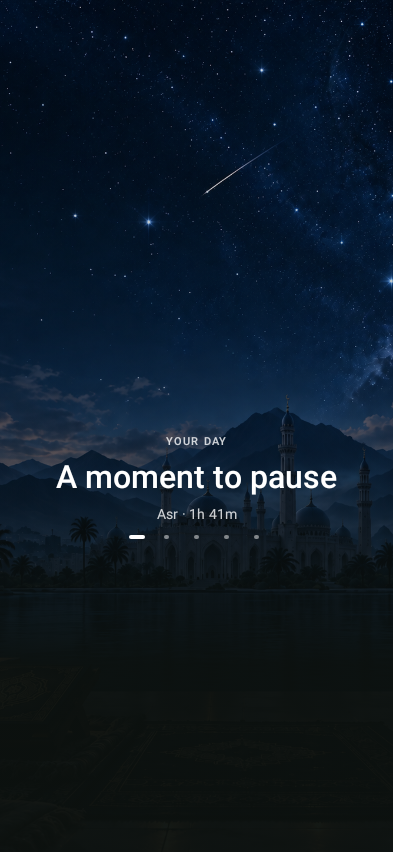
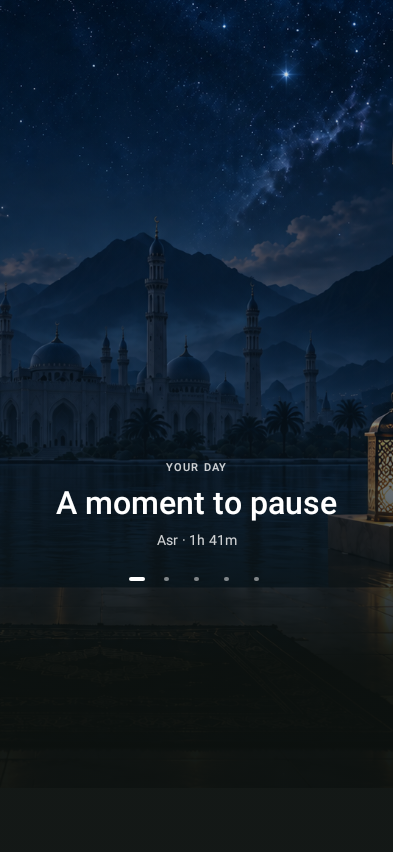
Refine Android home focal framing and glass controls

diff --git a/app/src/main/kotlin/com/starception/submission/ui/AppTopSearchBar.kt b/app/src/main/kotlin/com/starception/submission/ui/AppTopSearchBar.kt
@@ -55,6 +55,7 @@ import androidx.compose.animation.core.rememberInfiniteTransition
 import androidx.compose.animation.core.spring
 import androidx.compose.animation.core.tween
 import androidx.compose.foundation.Canvas
+import androidx.compose.foundation.BorderStroke
 import androidx.compose.foundation.background
 import androidx.compose.foundation.clickable
 import androidx.compose.foundation.layout.Box
@@ -66,9 +67,11 @@ import androidx.compose.foundation.layout.padding
 import androidx.compose.foundation.layout.size
 import androidx.compose.foundation.layout.statusBarsPadding
 import androidx.compose.foundation.shape.CircleShape
+import androidx.compose.foundation.shape.RoundedCornerShape
 import androidx.compose.material.icons.Icons
 import androidx.compose.material.icons.automirrored.filled.ArrowBack
 import androidx.compose.material.icons.filled.Search
+import androidx.compose.material.icons.filled.Settings
 import androidx.compose.material3.Icon
 import androidx.compose.material3.IconButton
 import androidx.compose.material3.MaterialTheme
@@ -538,6 +541,8 @@ fun AppTopSearchBar(
                 leading.isClickable = !homeImmersiveHeader
                 searchBar.alpha = if (homeImmersiveHeader) 0f else 1f
                 searchBar.isClickable = !homeImmersiveHeader
+                settings.visibility = if (homeImmersiveHeader) View.INVISIBLE else View.VISIBLE
+                settings.isClickable = !homeImmersiveHeader
                 val homeAccessibility = if (homeImmersiveHeader) {
                     View.IMPORTANT_FOR_ACCESSIBILITY_NO
                 } else {
@@ -545,6 +550,7 @@ fun AppTopSearchBar(
                 }
                 leading.importantForAccessibility = homeAccessibility
                 searchBar.importantForAccessibility = homeAccessibility
+                settings.importantForAccessibility = homeAccessibility
                 // Drive the SearchBar's hint from the typewriter state; the
                 // SearchView shows its own static placeholder when expanded.
                 // While voice capture is live the hints are cleared so the centered
@@ -658,6 +664,7 @@ fun AppTopSearchBar(
                     settings.scaleX = 1f
                     settings.scaleY = 1f
                 }
+                if (homeImmersiveHeader) settingsHalo.visibility = View.GONE
                 searchBar.navigationIcon?.mutate()?.setTint(pillTextColor)
                 for (i in 0 until searchBar.menu.size()) {
                     searchBar.menu.getItem(i).icon?.mutate()?.setTint(pillTextColor)
@@ -825,7 +832,7 @@ fun AppTopSearchBar(
         if (homeImmersiveHeader && !isSearchViewOpen) {
             Row(
                 modifier = Modifier.fillMaxWidth()
-                    .padding(start = 22.dp, end = 64.dp, top = topInset + 4.dp),
+                    .padding(start = 22.dp, end = 22.dp, top = topInset + 4.dp),
                 verticalAlignment = Alignment.CenterVertically,
                 horizontalArrangement = Arrangement.spacedBy(8.dp),
             ) {
@@ -841,20 +848,23 @@ fun AppTopSearchBar(
                         .semantics { contentDescription = "Open profile" },
                 )
                 Surface(
-                    onClick = { searchViewHolder.value?.show() },
-                    shape = CircleShape,
-                    color = if (isDarkTheme) ComposeColor(0xFF152438).copy(alpha = .84f)
-                    else ComposeColor(0xFFF7F4FB),
-                    shadowElevation = if (isDarkTheme) 0.dp else 3.dp,
-                    modifier = Modifier.size(44.dp),
+                    shape = RoundedCornerShape(22.dp),
+                    color = ComposeColor(0xFF233443).copy(alpha = if (isDarkTheme) .68f else .72f),
+                    border = BorderStroke(1.dp, ComposeColor.White.copy(alpha = .30f)),
+                    shadowElevation = if (isDarkTheme) 3.dp else 6.dp,
                 ) {
-                    Box(contentAlignment = Alignment.Center) {
-                        Icon(
-                            imageVector = Icons.Default.Search,
-                            contentDescription = "Search",
-                            tint = if (isDarkTheme) ComposeColor.White else ComposeColor(0xFF1F1A2A),
-                            modifier = Modifier.size(22.dp),
-                        )
+                    Row(verticalAlignment = Alignment.CenterVertically) {
+                        IconButton(
+                            onClick = { searchViewHolder.value?.show() },
+                            modifier = Modifier.size(40.dp),
+                        ) {
+                            Icon(Icons.Default.Search, contentDescription = "Search",
+                                tint = ComposeColor.White, modifier = Modifier.size(19.dp))
+                        }
+                        IconButton(onClick = onSettingsClick, modifier = Modifier.size(40.dp)) {
+                            Icon(Icons.Default.Settings, contentDescription = "Settings",
+                                tint = ComposeColor.White, modifier = Modifier.size(19.dp))
+                        }
                     }
                 }
             }

diff --git a/app/src/main/kotlin/com/starception/submission/feature/prayertimes/PrayerTimesScreen.kt b/app/src/main/kotlin/com/starception/submission/feature/prayertimes/PrayerTimesScreen.kt
@@ -3027,11 +3027,18 @@ fun PrayerTimesScreen(
                         painter = composeArtworkPainter(homeCoverArtwork(coverPage, prayerArtworkNight)),
                         contentDescription = null,
                         contentScale = ContentScale.Crop,
-                        modifier = Modifier.fillMaxSize(),
+                        alignment = if (coverPage == 0) Alignment.BottomEnd else Alignment.Center,
+                        modifier = Modifier.fillMaxSize().then(
+                            if (coverPage == 0) Modifier.graphicsLayer {
+                                scaleX = 1.25f
+                                scaleY = 1.25f
+                                translationY = -size.height * .20f
+                            } else Modifier,
+                        ),
                     )
                     Box(Modifier.fillMaxSize().background(Brush.verticalGradient(
                         0f to Color(0xFF071C30).copy(alpha = .12f),
-                        .50f to Color(0xFF0B1D2C).copy(alpha = .30f),
+                        .50f to Color(0xFF0B1D2C).copy(alpha = .50f),
                         .78f to Color(0xFF0C110F).copy(alpha = .97f),
                         1f to Color(0xFF0C110F).copy(alpha = .97f),
                     )))
@@ -3047,11 +3054,18 @@ fun PrayerTimesScreen(
                         painter = composeArtworkPainter(homeCoverArtwork(coverPage, prayerArtworkNight)),
                         contentDescription = null,
                         contentScale = ContentScale.Crop,
-                        modifier = Modifier.fillMaxSize(),
+                        alignment = if (coverPage == 0) Alignment.BottomEnd else Alignment.Center,
+                        modifier = Modifier.fillMaxSize().then(
+                            if (coverPage == 0) Modifier.graphicsLayer {
+                                scaleX = 1.25f
+                                scaleY = 1.25f
+                                translationY = -size.height * .20f
+                            } else Modifier,
+                        ),
                     )
                     Box(Modifier.fillMaxSize().background(Brush.verticalGradient(
                         0f to Color.White.copy(alpha = if (coverPage == 0) .14f else .50f),
-                        .48f to Color.White.copy(alpha = if (coverPage == 0) .28f else .50f),
+                        .48f to Color.White.copy(alpha = if (coverPage == 0) .58f else .50f),
                         .78f to Color.White,
                         1f to Color.White,
                     )))

diff --git a/app/src/testDemo/kotlin/com/starception/submission/feature/prayertimes/ImmersiveHomeCoverTest.kt b/app/src/testDemo/kotlin/com/starception/submission/feature/prayertimes/ImmersiveHomeCoverTest.kt
@@ -19,6 +19,8 @@ import androidx.compose.ui.Modifier
 import androidx.compose.ui.platform.LocalInspectionMode
 import androidx.compose.ui.graphics.Brush
 import androidx.compose.ui.graphics.Color
+import androidx.compose.ui.graphics.graphicsLayer
+import androidx.compose.ui.Alignment
 import androidx.compose.ui.layout.ContentScale
 import androidx.compose.ui.test.junit4.createComposeRule
 import androidx.compose.ui.test.onNodeWithText
@@ -68,16 +70,21 @@ private fun CoverTestScene(dark: Boolean, onOpen: (Int) -> Unit) {
                 painter = painterResource(homeCoverArtwork(0, dark)),
                 contentDescription = null,
                 contentScale = ContentScale.Crop,
-                modifier = Modifier.fillMaxSize(),
+                alignment = Alignment.BottomEnd,
+                modifier = Modifier.fillMaxSize().graphicsLayer {
+                    scaleX = 1.25f
+                    scaleY = 1.25f
+                    translationY = -size.height * .20f
+                },
             )
             Box(Modifier.fillMaxSize().background(if (dark) Brush.verticalGradient(
                 0f to Color(0xFF071C30).copy(alpha = .12f),
-                .50f to Color(0xFF0B1D2C).copy(alpha = .30f),
+                .50f to Color(0xFF0B1D2C).copy(alpha = .50f),
                 .78f to Color(0xFF0C110F).copy(alpha = .97f),
                 1f to Color(0xFF0C110F).copy(alpha = .97f),
             ) else Brush.verticalGradient(
                 0f to Color.White.copy(alpha = .14f),
-                .48f to Color.White.copy(alpha = .28f),
+                .48f to Color.White.copy(alpha = .58f),
                 .78f to Color.White,
                 1f to Color.White,
             )))

diff --git a/app/src/main/kotlin/com/starception/submission/feature/prayertimes/ImmersiveHomeCover.kt b/app/src/main/kotlin/com/starception/submission/feature/prayertimes/ImmersiveHomeCover.kt
@@ -70,8 +70,8 @@ internal fun ImmersiveHomeCover(
     BoxWithConstraints(Modifier.fillMaxSize()) {
         // The reference leaves breathing room between the recommendation and
         // the lower feed; anchoring both to the tile bottom puts them too low.
-        val copyBottom = maxHeight * .245f
-        val indicatorBottom = maxHeight * .20f
+        val copyBottom = maxHeight * .20f
+        val indicatorBottom = maxHeight * .13f
         HorizontalPager(state = pagerState, modifier = Modifier.fillMaxSize()) { page ->
             val (eyebrow, title, detail) = when (page) {
                 0 -> Triple("YOUR DAY", "A moment to pause",

diff --git a/app/src/main/kotlin/com/starception/submission/ui/NiaApp.kt b/app/src/main/kotlin/com/starception/submission/ui/NiaApp.kt
@@ -459,9 +459,9 @@ private fun NiaFloatingBottomBar(
             Surface(
                 shape = RoundedCornerShape(navBarHeight / 2),
                 color = if (homeDark) {
-                    Color(0xFF1B2B22)
+                    Color(0xFF122033).copy(alpha = .76f)
                 } else if (homeLight) {
-                    Color(0xFFFDFBFF)
+                    Color.White.copy(alpha = .82f)
                 } else if (darkTheme) {
                     colorScheme.surfaceContainer
                 } else {
